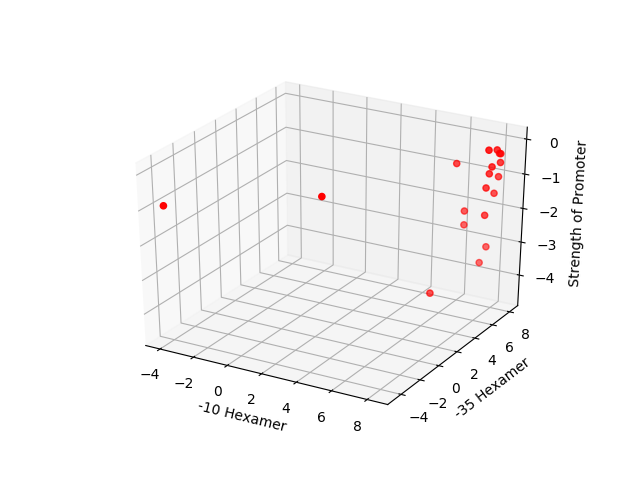
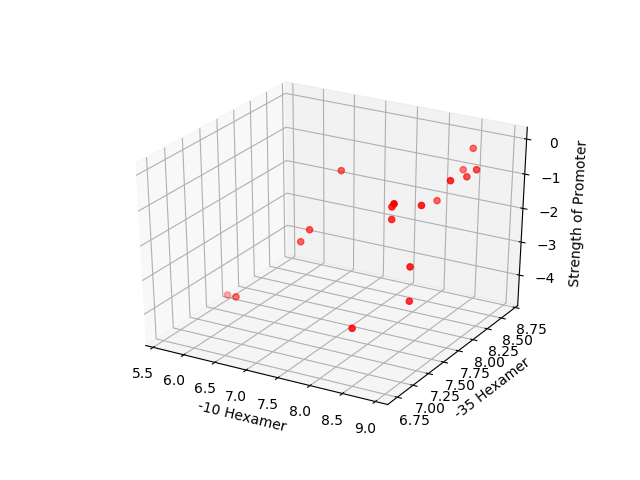
Changes made to Graph, ln(Predicted Strength), R square

diff --git a/templates/tutorial.html b/templates/tutorial.html
@@ -158,6 +158,14 @@ $def with (form, text)
     color: #26a69a;
 }
 
+.redDot{
+    color: red;
+}
+
+.blueDot{
+    color: blue;
+}
+
 .copyrightPrint{
     background-color: #26a69a;
 }

diff --git a/FinalP.py b/FinalP.py
@@ -94,7 +94,8 @@ class tutorial:
         tempo = []
         convert10 = []
         convert35 = []
-        flag = 0 # Used to check if the user has entered 
+        flag = 0 # Used to check if the user has entered the sequence for which prediction is required
+        flag2 = 0
         
         # DATA SET : 19 SAMPLES OF -35 AND -10 SEQUENCES WITH RESPECTIVE STRENGTH 
 
@@ -468,22 +469,35 @@ class tutorial:
         print ""
 
         # CONSTRUCTION OF THE MULTIVARIENT LINEAR REGRESSION GRAPH
+        # THE NUMBER 19 REPRESENTS THE DEFAULT SIZE OF THE DATASET PROVIDED 
         fig =plt.figure()
         ax = fig.add_subplot(111, projection = '3d')
         for c, m in [('r','o')]:
-            xs = x[:,1]
+            xs = x[0:19,1]
             print "\t\t\t\t xs Plot for Graph -10 Sequence"
             print(xs)
             print ""
-            ys = x[:,2]
+            ys = x[0:19,2]
             print "\t\t\t\t ys Plot for Graph -35 Sequence"
             print (ys)
             print ""
-            zs = y
+            zs = y[0:19]
             print "\t\t\t\t zs Plot for Graph Strength"
             print (zs)
             print ""
             ax.scatter(xs, ys,zs, c=c, marker =m)
+        
+        md = len(y)
+        print "\t\t\t\t Total Number of Elements in the Dataset" 
+        print md
+        print ""   
+        if (md > 19):
+            flag2 = 1
+            for c,m in [('b','o')]:
+                xd = x[19:,1]
+                yd = x[19:,2]
+                zd = y[19:]
+                ax.scatter(xd, yd, zd, c=c, marker =m)
         
         ax.set_xlabel('-10 Hexamer')
         ax.set_ylabel('-35 Hexamer')
@@ -508,13 +522,17 @@ class tutorial:
             finalStrength = strength
             #print 'Predicted strength of promoter : %s' % (finalStrength)
             #print 'Correlation Measure Sqare Value : %s' % (R)
-            pri = '<div class="col s12 m5 l5"><p class="para"><span class="highlight"><i class="fa fa-bullseye fa-2x" aria-hidden="true"></i></span><br><span class="highlight">Predicted Strength</span><br> %s </p><br><br>' % finalStrength
-            rsqare = '<p class="para"><span class="highlight"><i class="fa fa-gavel fa-2x" aria-hidden="true"></i></span><br><span class="highlight">Correlation Measure Sqare Value</span> <br> %s </p></div></div>' % R
+            pri = '<div class="col s12 m5 l5"><p class="para"><span class="highlight"><i class="fa fa-bullseye fa-2x" aria-hidden="true"></i></span><br><span class="highlight">ln(Predicted Strength)</span><br> %s </p>' % finalStrength
+            key1 = '<p class="para"><span class="highlight redDot"><i class="fa fa-circle" aria-hidden="true"></i></span><br><span class="highlight">Existing Dataset</span></p>'
+            key2 = '<p class="para"><span class="highlight blueDot"><i class="fa fa-circle" aria-hidden="true"></i></span><br><span class="highlight">User Added Data Points</span> <br> (If Dynamic Model in Use)</p></div></div>'
+            #rsqare = '<p class="para"><span class="highlight"><i class="fa fa-gavel fa-2x" aria-hidden="true"></i></span><br><span class="highlight">Correlation Measure Sqare Value</span> <br> %s </p></div></div>' % R
         else:
             pri = '<div class="col s12 m5 l5"><p></p>'
-            rsqare = '<p class="para"><span class="highlight"><i class="fa fa-gavel fa-2x" aria-hidden="true"></i></span><br><span class="highlight">Correlation Measure Sqare Value</span> <br> %s </p></div></div>' % R
+            key1 = '<p class="para"><span class="highlight redDot"><i class="fa fa-circle" aria-hidden="true"></i></span><br><span class="highlight">Existing Dataset</span></p>'
+            key2 = '<p class="para"><span class="highlight blueDot"><i class="fa fa-circle" aria-hidden="true"></i></span><br><span class="highlight">User Added Data Points</span> <br> (If Dynamic Model in Use)</p></div></div>'          
+            #rsqare = '<p class="para"><span class="highlight"><i class="fa fa-gavel fa-2x" aria-hidden="true"></i></span><br><span class="highlight">Correlation Measure Sqare Value</span> <br> %s </p></div></div>' % R
            
-        return make_text(graph + img_tag + pri + rsqare)
+        return make_text(graph + img_tag + pri + key1 + key2)
 
 if __name__ == '__main__':
     app.run()
